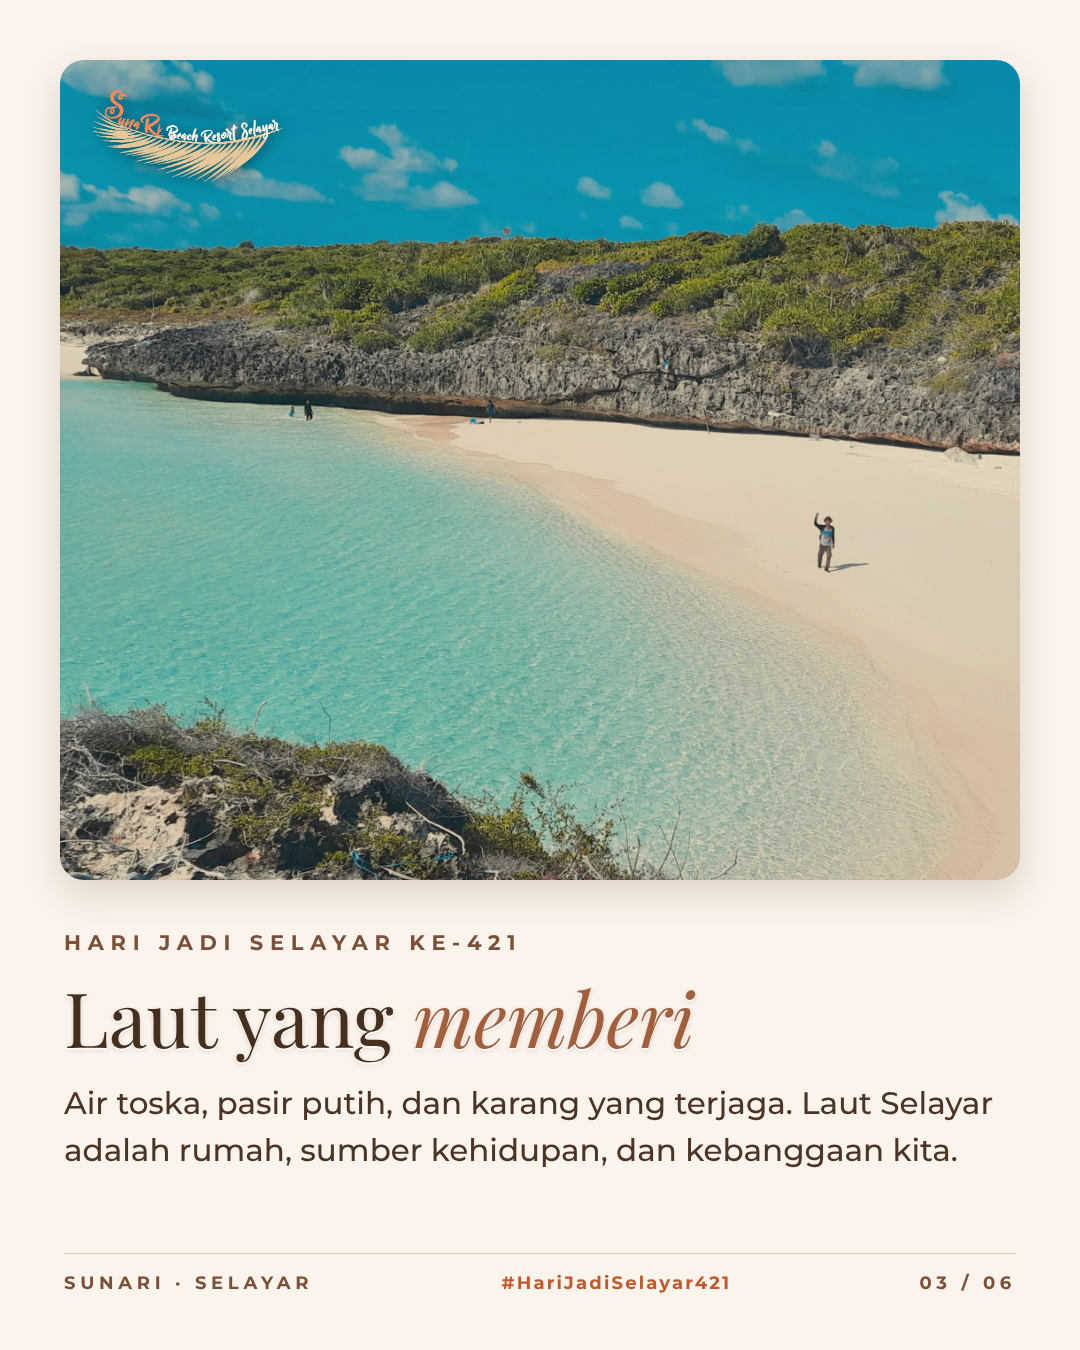
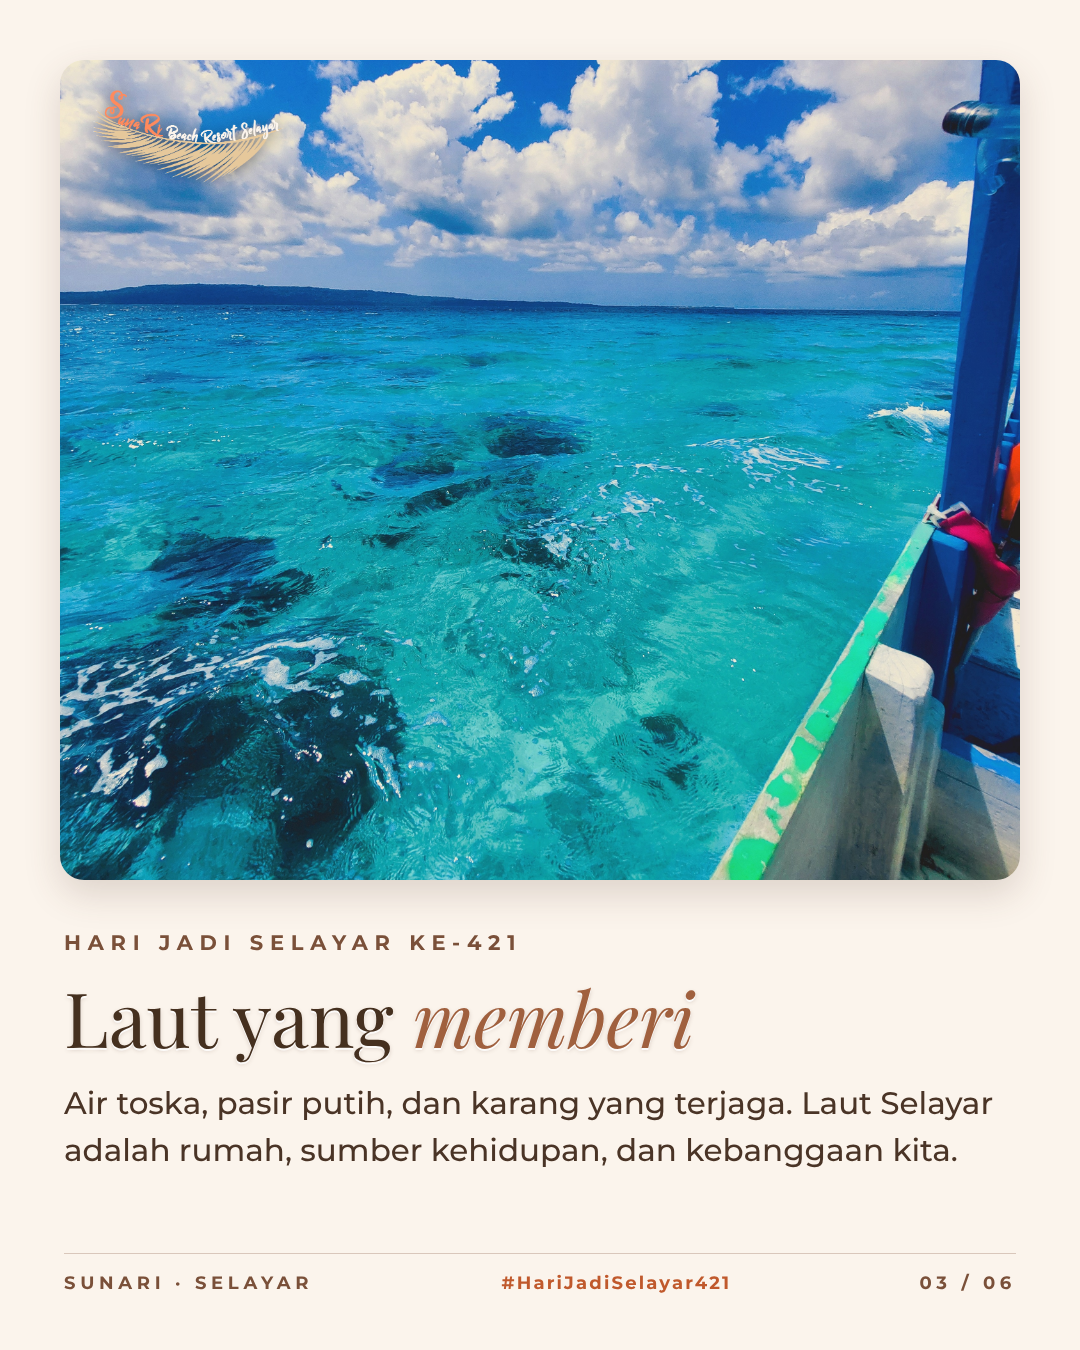
Feed Hari Jadi Selayar: foto slide 2-4 diganti agar sesuai teks (pangan lokal, laut & karang, kolase pulau)
Claude-Session: https://claude.ai/code/session_01KeLc5eBGUnchV5ne3wvwHX

diff --git a/social/hari_jadi_feed.html b/social/hari_jadi_feed.html
@@ -28,17 +28,21 @@ body{background:#bbb;font-family:Montserrat,sans-serif}
 .fx div::before{content:"";display:inline-block;width:10px;height:10px;border-radius:50%;background:linear-gradient(90deg,#FDB15D,#FF8A5C);margin-right:16px;vertical-align:middle}
 
 .big{font-family:'Playfair Display',serif;font-size:230px;line-height:.9;color:#FBF4EC;text-shadow:0 3px 18px rgba(0,0,0,.45)}
+.ph.grid{display:grid;gap:10px;background:#FBF4EC}
+.ph.grid>div{position:relative;overflow:hidden}
+.ph.grid>div img{width:100%;height:100%;object-fit:cover}
+.ph.grid .cap{position:absolute;left:0;right:0;bottom:0;padding:40px 20px 14px;color:#FBF4EC;font-family:'Playfair Display',serif;font-size:32px;text-shadow:0 2px 8px rgba(0,0,0,.55);background:linear-gradient(180deg,rgba(20,12,6,0),rgba(20,12,6,.6))}
 .fc .vb{height:520px;background:linear-gradient(0deg,rgba(20,12,6,.7),rgba(20,12,6,0))}
 </style></head><body><div class="t fc" id="hari-jadi-01"><img class="bgf" src="../assets/photos/graded/senja__85-siluet-tirai-senja-persegi-lurus.jpg" style="object-position:15% 50%" alt="">
   <div class="vt"></div><div class="vb"></div>
   <div class="fk">29 November 1605 — 2026</div><div class="fh" style="font-size:96px">Selamat<br>Hari Jadi</div>
   <div class="big" style="position:absolute;left:76px;top:390px">ke-421</div>
   <div class="fs" style="top:620px">Kabupaten Kepulauan Selayar</div>
-  <div class="fg">Geser &nbsp;→</div><img class="fl" src="../assets/logo-sunari-color-dark.png" alt=""></div><div class="t" id="hari-jadi-02"><div class="ph"><img src="../assets/photos/graded/pantai__02-perahu-nelayan-biru.jpg" style="object-position:50% 55%" alt=""><img class="lg" src="../assets/logo-sunari-color-dark.png" alt=""></div>
+  <div class="fg">Geser &nbsp;→</div><img class="fl" src="../assets/logo-sunari-color-dark.png" alt=""></div><div class="t" id="hari-jadi-02"><div class="ph grid" style="grid-template-columns:1fr 1fr;grid-template-rows:1fr"><div style=""><img src="../assets/photos/graded/pantai__02-perahu-nelayan-biru.jpg" style="object-position:40% 55%" alt=""><div class="cap">Dari laut</div></div><div style=""><img src="../assets/photos/graded/resto__02-bakar-cumi-ayam.jpg" style="object-position:50% 50%" alt=""><div class="cap">ke meja makan</div></div><img class="lg" src="../assets/logo-sunari-color-dark.png" style="position:absolute" alt=""></div>
   <div class="kick">Hari Jadi Selayar ke-421</div><div class="ttl emb">Bangga <em>pangan lokal</em></div><div class="sub">Tema tahun ini: “Pangan Lokal Mendukung Ketahanan Pangan Nasional”. Dari laut dan kebun Selayar, untuk Indonesia.</div>
-  <div class="bt"><span>SunaRi · Selayar</span><span class="h">#HariJadiSelayar421</span><span>02 / 06</span></div></div><div class="t" id="hari-jadi-03"><div class="ph"><img src="../assets/photos/graded/bahuluang__51-pantai-barat-teluk-pasir-putih.jpg" style="object-position:45% 50%" alt=""><img class="lg" src="../assets/logo-sunari-color-dark.png" alt=""></div>
+  <div class="bt"><span>SunaRi · Selayar</span><span class="h">#HariJadiSelayar421</span><span>02 / 06</span></div></div><div class="t" id="hari-jadi-03"><div class="ph"><img src="../assets/photos/graded/bahuluang__21-laut-toska-dari-kapal.jpg" style="object-position:50% 70%" alt=""><img class="lg" src="../assets/logo-sunari-color-dark.png" alt=""></div>
   <div class="kick">Hari Jadi Selayar ke-421</div><div class="ttl emb">Laut yang <em>memberi</em></div><div class="sub">Air toska, pasir putih, dan karang yang terjaga. Laut Selayar adalah rumah, sumber kehidupan, dan kebanggaan kita.</div>
-  <div class="bt"><span>SunaRi · Selayar</span><span class="h">#HariJadiSelayar421</span><span>03 / 06</span></div></div><div class="t" id="hari-jadi-04"><div class="ph"><img src="../assets/photos/graded/bahuluang__19-batu-berlubang.jpg" style="object-position:50% 55%" alt=""><img class="lg" src="../assets/logo-sunari-color-dark.png" alt=""></div>
+  <div class="bt"><span>SunaRi · Selayar</span><span class="h">#HariJadiSelayar421</span><span>03 / 06</span></div></div><div class="t" id="hari-jadi-04"><div class="ph grid" style="grid-template-columns:1.3fr 1fr;grid-template-rows:1fr 1fr"><div style="grid-row:1/3"><img src="../assets/photos/graded/bahuluang__51-pantai-barat-teluk-pasir-putih.jpg" style="object-position:45% 50%" alt=""><div class="cap">Bahuluang</div></div><div style=""><img src="../assets/photos/graded/pantai__03-pulau-di-seberang.jpg" style="object-position:50% 60%" alt=""><div class="cap">Gusung</div></div><div style=""><img src="../assets/photos/graded/polassi-tambolongan__07-punggung-bukit-nane-dan-teluk.jpg" style="object-position:50% 50%" alt=""><div class="cap">Polassi</div></div><img class="lg" src="../assets/logo-sunari-color-dark.png" style="position:absolute" alt=""></div>
   <div class="kick">Hari Jadi Selayar ke-421</div><div class="ttl emb">Pulau-pulau <em>yang memesona</em></div><div class="sub">Bahuluang, Gusung, Polassi, Tambolongan. Hanya sebagian kecil dari keindahan Kepulauan Selayar.</div>
   <div class="bt"><span>SunaRi · Selayar</span><span class="h">#HariJadiSelayar421</span><span>04 / 06</span></div></div><div class="t" id="hari-jadi-05"><div class="ph"><img src="../assets/photos/graded/senja__21-siluet-tamu-tepi-pantai.jpg" style="object-position:50% 55%" alt=""><img class="lg" src="../assets/logo-sunari-color-dark.png" alt=""></div>
   <div class="kick">Hari Jadi Selayar ke-421</div><div class="ttl emb">Senja di <em>pesisir barat</em></div><div class="sub">Setiap sore matahari tenggelam di depan Pantai Sunari. Hadiah kecil dari Selayar untuk siapa saja yang singgah.</div>

diff --git a/social/build_hari_jadi_feed.py b/social/build_hari_jadi_feed.py
@@ -7,6 +7,10 @@ exec((H / "build_vipsuperior.py").read_text().split("KICK =")[0].replace("__file
 P = "../assets/photos/graded/"; N = 6; KICK = "Hari Jadi Selayar ke-421"
 CSS += """
 .big{font-family:'Playfair Display',serif;font-size:230px;line-height:.9;color:#FBF4EC;text-shadow:0 3px 18px rgba(0,0,0,.45)}
+.ph.grid{display:grid;gap:10px;background:#FBF4EC}
+.ph.grid>div{position:relative;overflow:hidden}
+.ph.grid>div img{width:100%;height:100%;object-fit:cover}
+.ph.grid .cap{position:absolute;left:0;right:0;bottom:0;padding:40px 20px 14px;color:#FBF4EC;font-family:'Playfair Display',serif;font-size:32px;text-shadow:0 2px 8px rgba(0,0,0,.55);background:linear-gradient(180deg,rgba(20,12,6,0),rgba(20,12,6,.6))}
 .fc .vb{height:520px;background:linear-gradient(0deg,rgba(20,12,6,.7),rgba(20,12,6,0))}
 """
 T = []
@@ -17,17 +21,24 @@ T.append(f'''<div class="t fc" id="hari-jadi-01"><img class="bgf" src="{P}senja_
   <div class="fs" style="top:620px">Kabupaten Kepulauan Selayar</div>
   <div class="fg">Geser &nbsp;→</div><img class="fl" src="{LOGO_D}" alt=""></div>''')
 SL = [
- (P + "pantai__02-perahu-nelayan-biru.jpg", "50% 55%", 'Bangga <em>pangan lokal</em>',
+ ([(P + "pantai__02-perahu-nelayan-biru.jpg", "40% 55%", "Dari laut"), (P + "resto__02-bakar-cumi-ayam.jpg", "50% 50%", "ke meja makan")], "", 'Bangga <em>pangan lokal</em>',
   'Tema tahun ini: “Pangan Lokal Mendukung Ketahanan Pangan Nasional”. Dari laut dan kebun Selayar, untuk Indonesia.'),
- (P + "bahuluang__51-pantai-barat-teluk-pasir-putih.jpg", "45% 50%", 'Laut yang <em>memberi</em>',
+ (P + "bahuluang__21-laut-toska-dari-kapal.jpg", "50% 70%", 'Laut yang <em>memberi</em>',
   'Air toska, pasir putih, dan karang yang terjaga. Laut Selayar adalah rumah, sumber kehidupan, dan kebanggaan kita.'),
- (P + "bahuluang__19-batu-berlubang.jpg", "50% 55%", 'Pulau-pulau <em>yang memesona</em>',
+ ([(P + "bahuluang__51-pantai-barat-teluk-pasir-putih.jpg", "45% 50%", "Bahuluang"), (P + "pantai__03-pulau-di-seberang.jpg", "50% 60%", "Gusung"), (P + "polassi-tambolongan__07-punggung-bukit-nane-dan-teluk.jpg", "50% 50%", "Polassi")], "", 'Pulau-pulau <em>yang memesona</em>',
   'Bahuluang, Gusung, Polassi, Tambolongan. Hanya sebagian kecil dari keindahan Kepulauan Selayar.'),
  (P + "senja__21-siluet-tamu-tepi-pantai.jpg", "50% 55%", 'Senja di <em>pesisir barat</em>',
   'Setiap sore matahari tenggelam di depan Pantai Sunari. Hadiah kecil dari Selayar untuk siapa saja yang singgah.'),
 ]
 for k, (img, pos, t, sub) in enumerate(SL, 2):
-    T.append(f'''<div class="t" id="hari-jadi-{k:02d}"><div class="ph"><img src="{img}" style="object-position:{pos}" alt=""><img class="lg" src="{LOGO_D}" alt=""></div>
+    if isinstance(img, list):
+        cols = "1fr 1fr" if len(img) == 2 else "1.3fr 1fr"
+        rows = "1fr" if len(img) == 2 else "1fr 1fr"
+        cells = "".join(f'<div style="{"grid-row:1/3" if len(img) == 3 and i == 0 else ""}"><img src="{a}" style="object-position:{b}" alt=""><div class="cap">{c}</div></div>' for i, (a, b, c) in enumerate(img))
+        ph = f'<div class="ph grid" style="grid-template-columns:{cols};grid-template-rows:{rows}">{cells}<img class="lg" src="{LOGO_D}" style="position:absolute" alt=""></div>'
+    else:
+        ph = f'<div class="ph"><img src="{img}" style="object-position:{pos}" alt=""><img class="lg" src="{LOGO_D}" alt=""></div>'
+    T.append(f'''<div class="t" id="hari-jadi-{k:02d}">{ph}
   <div class="kick">{KICK}</div><div class="ttl emb">{t}</div><div class="sub">{sub}</div>
   <div class="bt"><span>SunaRi · Selayar</span><span class="h">#HariJadiSelayar421</span><span>{k:02d} / {N:02d}</span></div></div>''')
 T.append(f'''<div class="t" id="hari-jadi-06"><div class="frame"></div>
